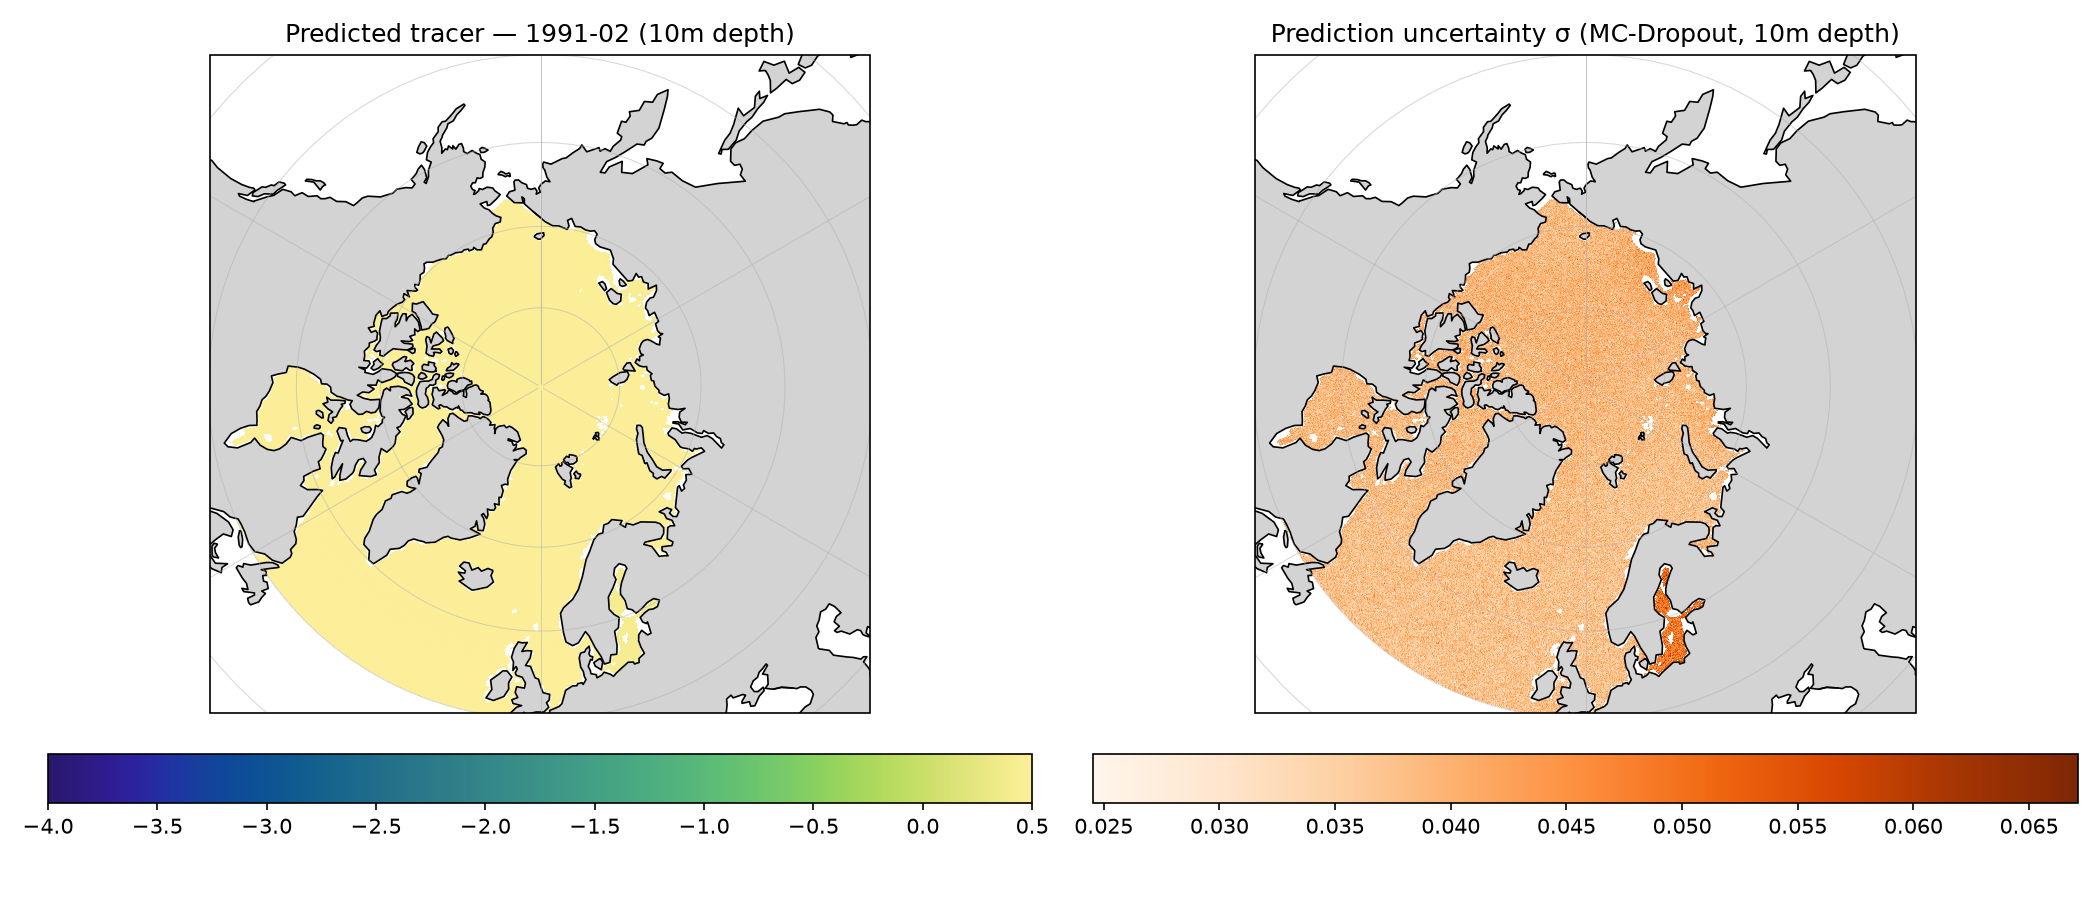
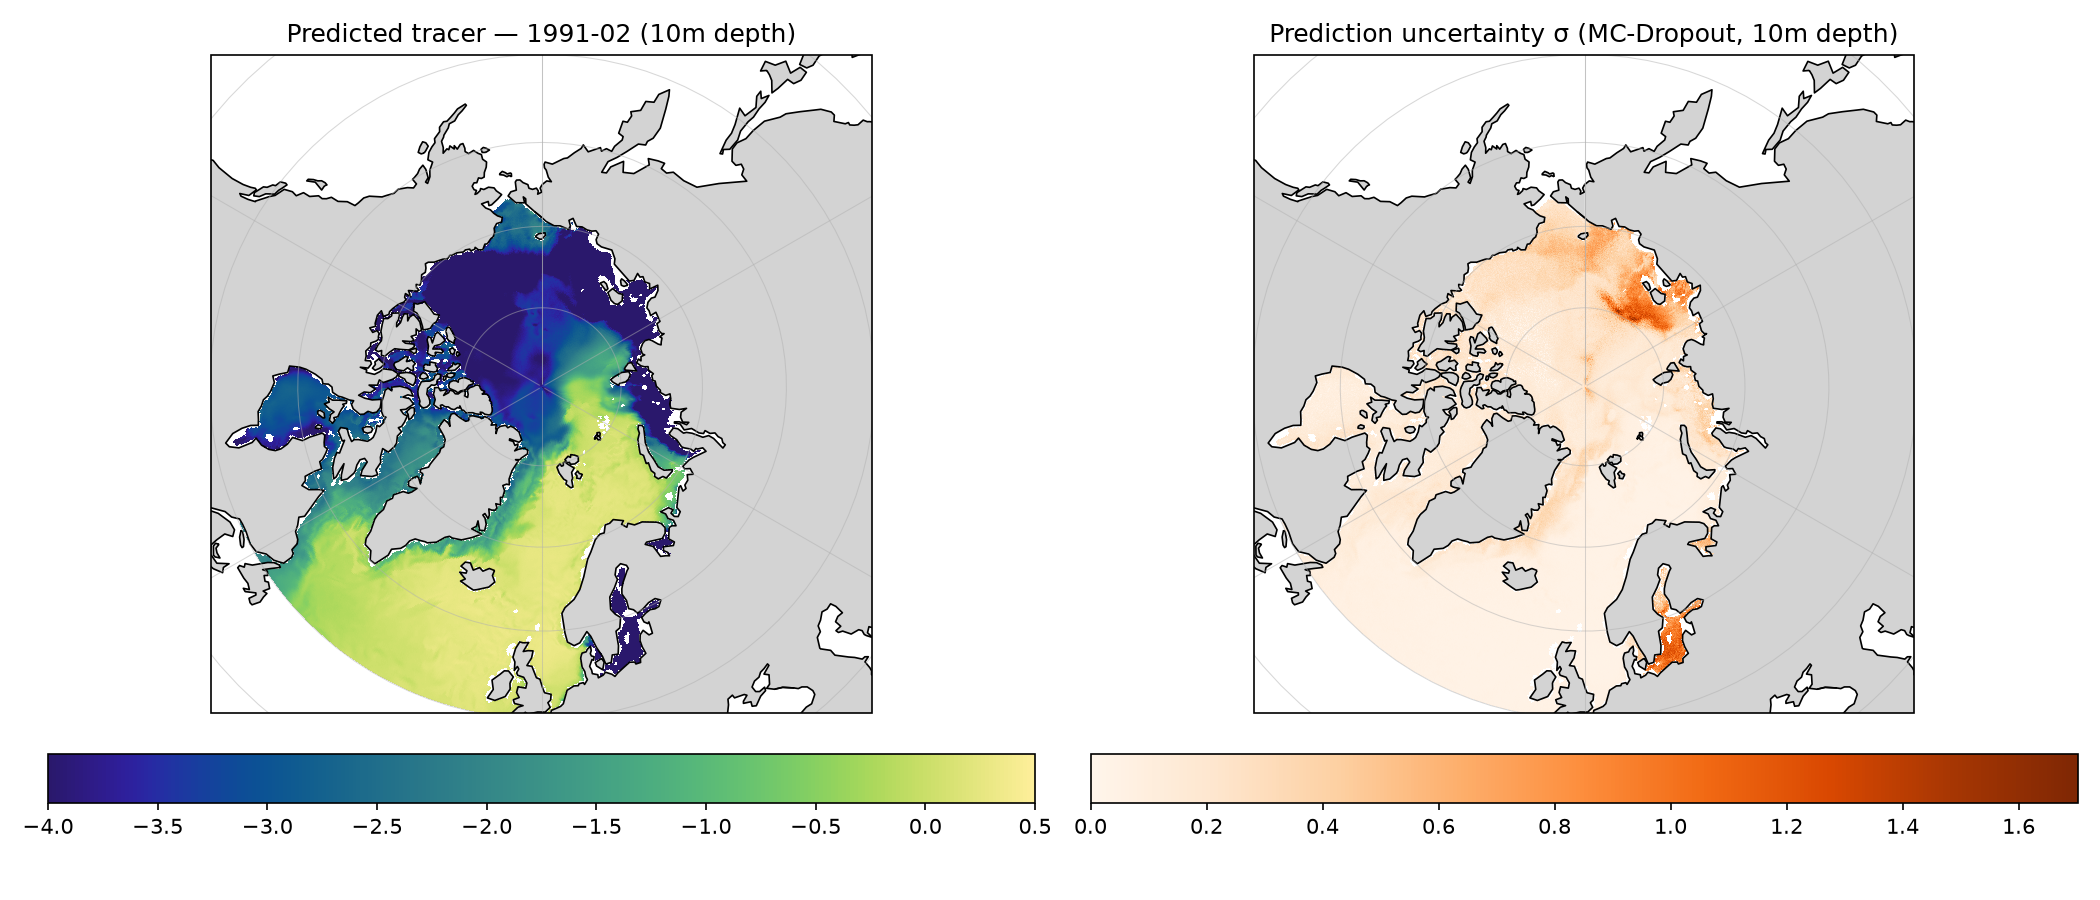
fixed log n2 issue that was saturating inference

diff --git a/inference/inference.py b/inference/inference.py
@@ -131,11 +131,33 @@ def infer_on_model_field(
     spice = gsw.spiciness0(SA, CT)
     sigma2 = gsw.sigma2(SA, CT)
 
+    # ── N² proxy / stratification feature ────────────────────────────────
     alpha = gsw.alpha(SA, CT, p_flat)
     beta = gsw.beta(SA, CT, p_flat)
     rho = gsw.rho(SA, CT, p_flat)
-    n2_proxy = np.maximum(9.7963 / rho * rho * (alpha + beta) / 100.0, 1e-8)
-    log_n2 = np.log10(n2_proxy)
+
+    REF_DEPTH_SCALE = 100.0
+    N2_EPSILON = 1e-8
+
+    n2_raw = (
+        (9.7963 / rho)
+        * (alpha + beta)
+        / REF_DEPTH_SCALE
+    )
+
+    n2_clean = np.nan_to_num(
+        n2_raw,
+        nan=N2_EPSILON,
+        posinf=N2_EPSILON,
+        neginf=N2_EPSILON,
+    )
+
+    n2 = np.maximum(
+        n2_clean,
+        N2_EPSILON
+    )
+
+    log_n2 = np.log10(n2)
 
     # ── Velocity features ─────────────────────────────────────────────────────
     eps_v = 1e-10
@@ -181,6 +203,36 @@ def infer_on_model_field(
     n_valid = valid.sum()
     print(f"  [infer] Valid ocean points: {n_valid:,} / {valid.size:,} ({100 * n_valid / valid.size:.1f}%)")
 
+    print("\n========== INFERENCE FEATURE DIAGNOSTICS ==========")
+
+    print("Feature names:")
+    for i, name in enumerate(feat_names):
+        print(
+            f"  {i:2d}: {name:20s} "
+            f"raw min={np.nanmin(X_model[:, i]):12.5g} "
+            f"max={np.nanmax(X_model[:, i]):12.5g} "
+            f"mean={np.nanmean(X_model[:, i]):12.5g} "
+            f"std={np.nanstd(X_model[:, i]):12.5g}"
+        )
+
+    X_scaled = scaler.transform(X_model[valid])
+
+    print("\nScaled features:")
+    for i, name in enumerate(feat_names):
+        print(
+            f"  {i:2d}: {name:20s} "
+            f"min={np.nanmin(X_scaled[:, i]):12.5g} "
+            f"max={np.nanmax(X_scaled[:, i]):12.5g} "
+            f"mean={np.nanmean(X_scaled[:, i]):12.5g} "
+            f"std={np.nanstd(X_scaled[:, i]):12.5g}"
+        )
+
+    print("\nScaler:")
+    print("  mean :", scaler.mean_)
+    print("  scale:", scaler.scale_)
+
+    print("====================================================\n")
+
     X_valid = scaler.transform(X_model[valid])
 
     # ── Vectorized MC-Dropout inference ───────────────────────────────────────
@@ -222,6 +274,23 @@ def infer_on_model_field(
 
         mean[i : i + curr_batch_len] = batch_mean.cpu().numpy().squeeze()
         sq_mean[i : i + curr_batch_len] = batch_sq_mean.cpu().numpy().squeeze()
+
+        if i == 0:
+            y_test = (
+                y_expanded
+                .detach()
+                .float()
+                .cpu()
+                .numpy()
+                .squeeze()
+            )
+
+            print("\n========== MODEL OUTPUT CHECK ==========")
+            print(f"min  = {np.nanmin(y_test):.6f}")
+            print(f"max  = {np.nanmax(y_test):.6f}")
+            print(f"mean = {np.nanmean(y_test):.6f}")
+            print(f"std  = {np.nanstd(y_test):.6f}")
+            print("========================================")
 
     tracer_mean = mean
     tracer_std = np.sqrt(np.maximum(sq_mean - mean**2, 0.0))

diff --git a/train.py b/train.py
@@ -222,7 +222,7 @@ def main(cfg_path):
 
     # ── 5. Diagnostics ────────────────────────────────────────────────────────
     log_status("── 5. Diagnostics ──────────────────────────────────────────")
-    X_sc = scaler.fit_transform(X)
+    X_sc = scaler.transform(X)
     y_pred_mn, y_pred_sd = predict_with_uncertainty(
         model_final,
         X_sc,

diff --git a/infer.py b/infer.py
@@ -14,8 +14,8 @@ from models.architecture import TracerPINN
 import cartopy.crs as ccrs
 import cartopy.feature as cfeature
 
-cfg = {"model_year": 1991,
-    "model_month": 2,
+cfg = {"model_year": 1994,
+    "model_month": 9,
     "seed": 42,
     "nc_path":"/work/scratch-pw5/thopri/cmems_mod_arc_phy_my_topaz4_P1M_multi-vars_180.00W-179.88E_50.00N-90.00N_0.00-4000.00m_1991-01-01-2026-04-01.nc",
[1 lines of base64/hex data omitted]

diff --git a/training/training.py b/training/training.py
@@ -2,7 +2,6 @@ import torch
 import pandas as pd
 from ocean.dataset import TracerDataset
 from models.loss import physics_losses
-from models.loss import AdaptivePINNLoss
 
 import torch.nn as nn
 
